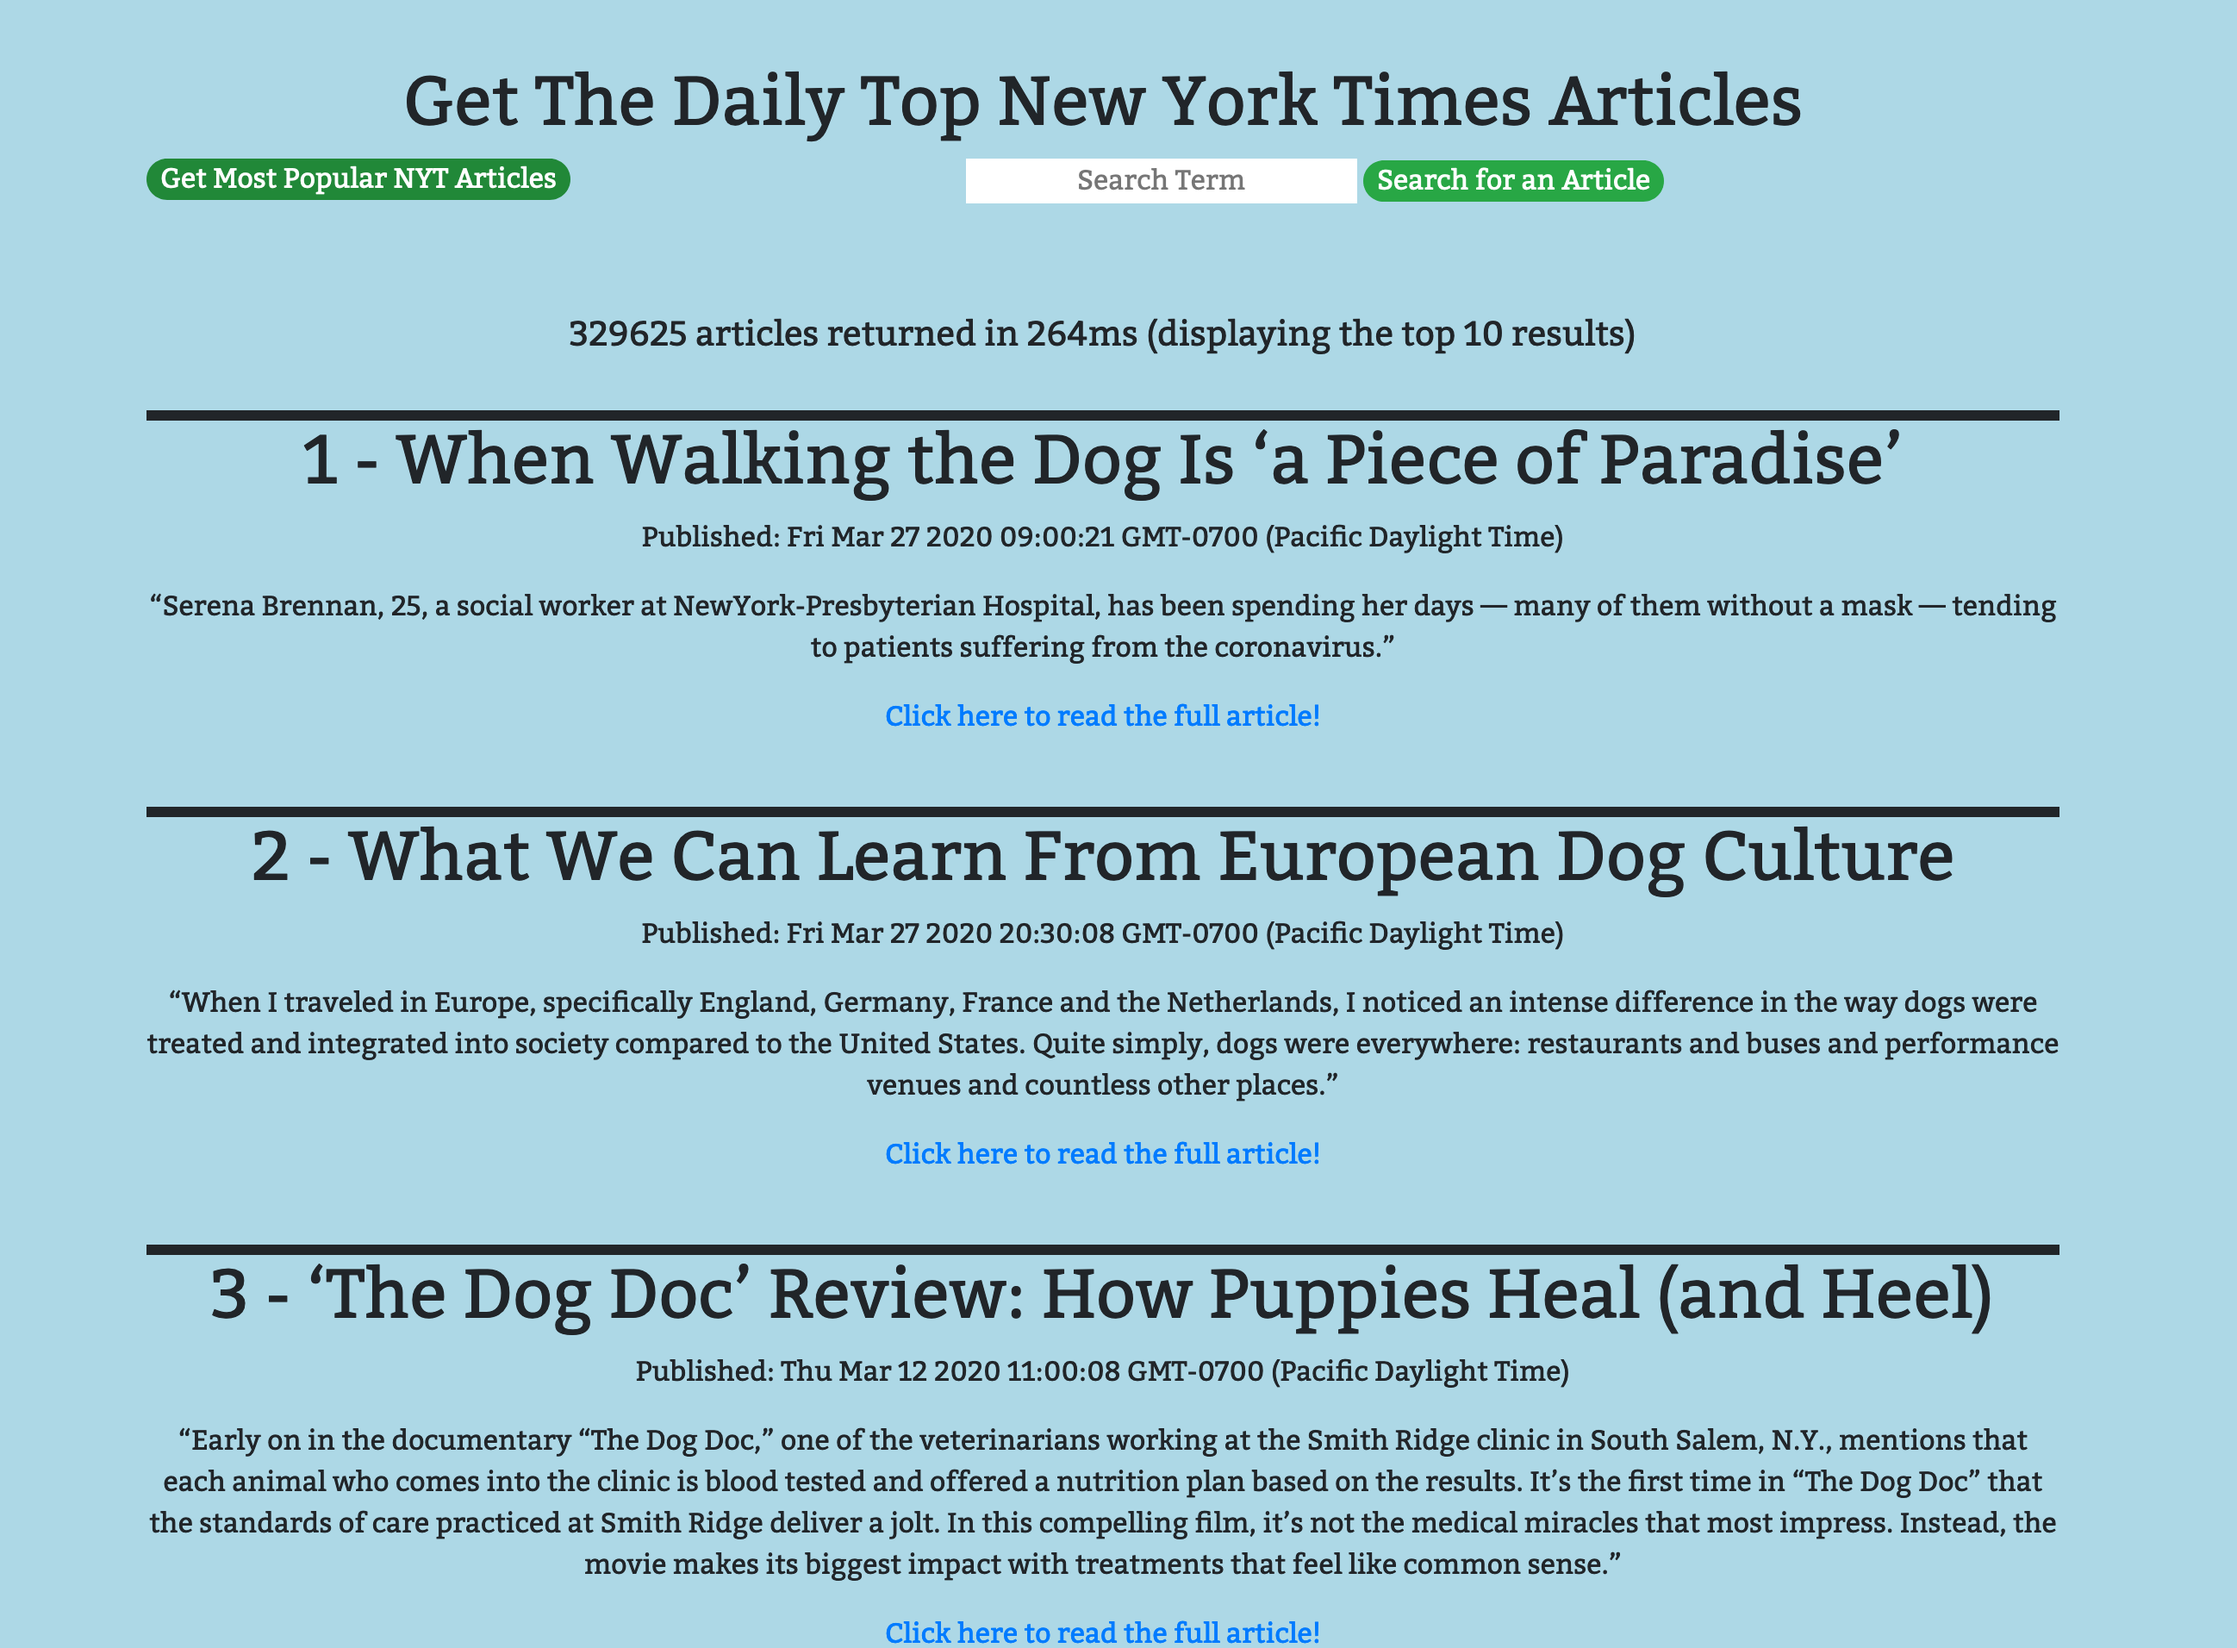
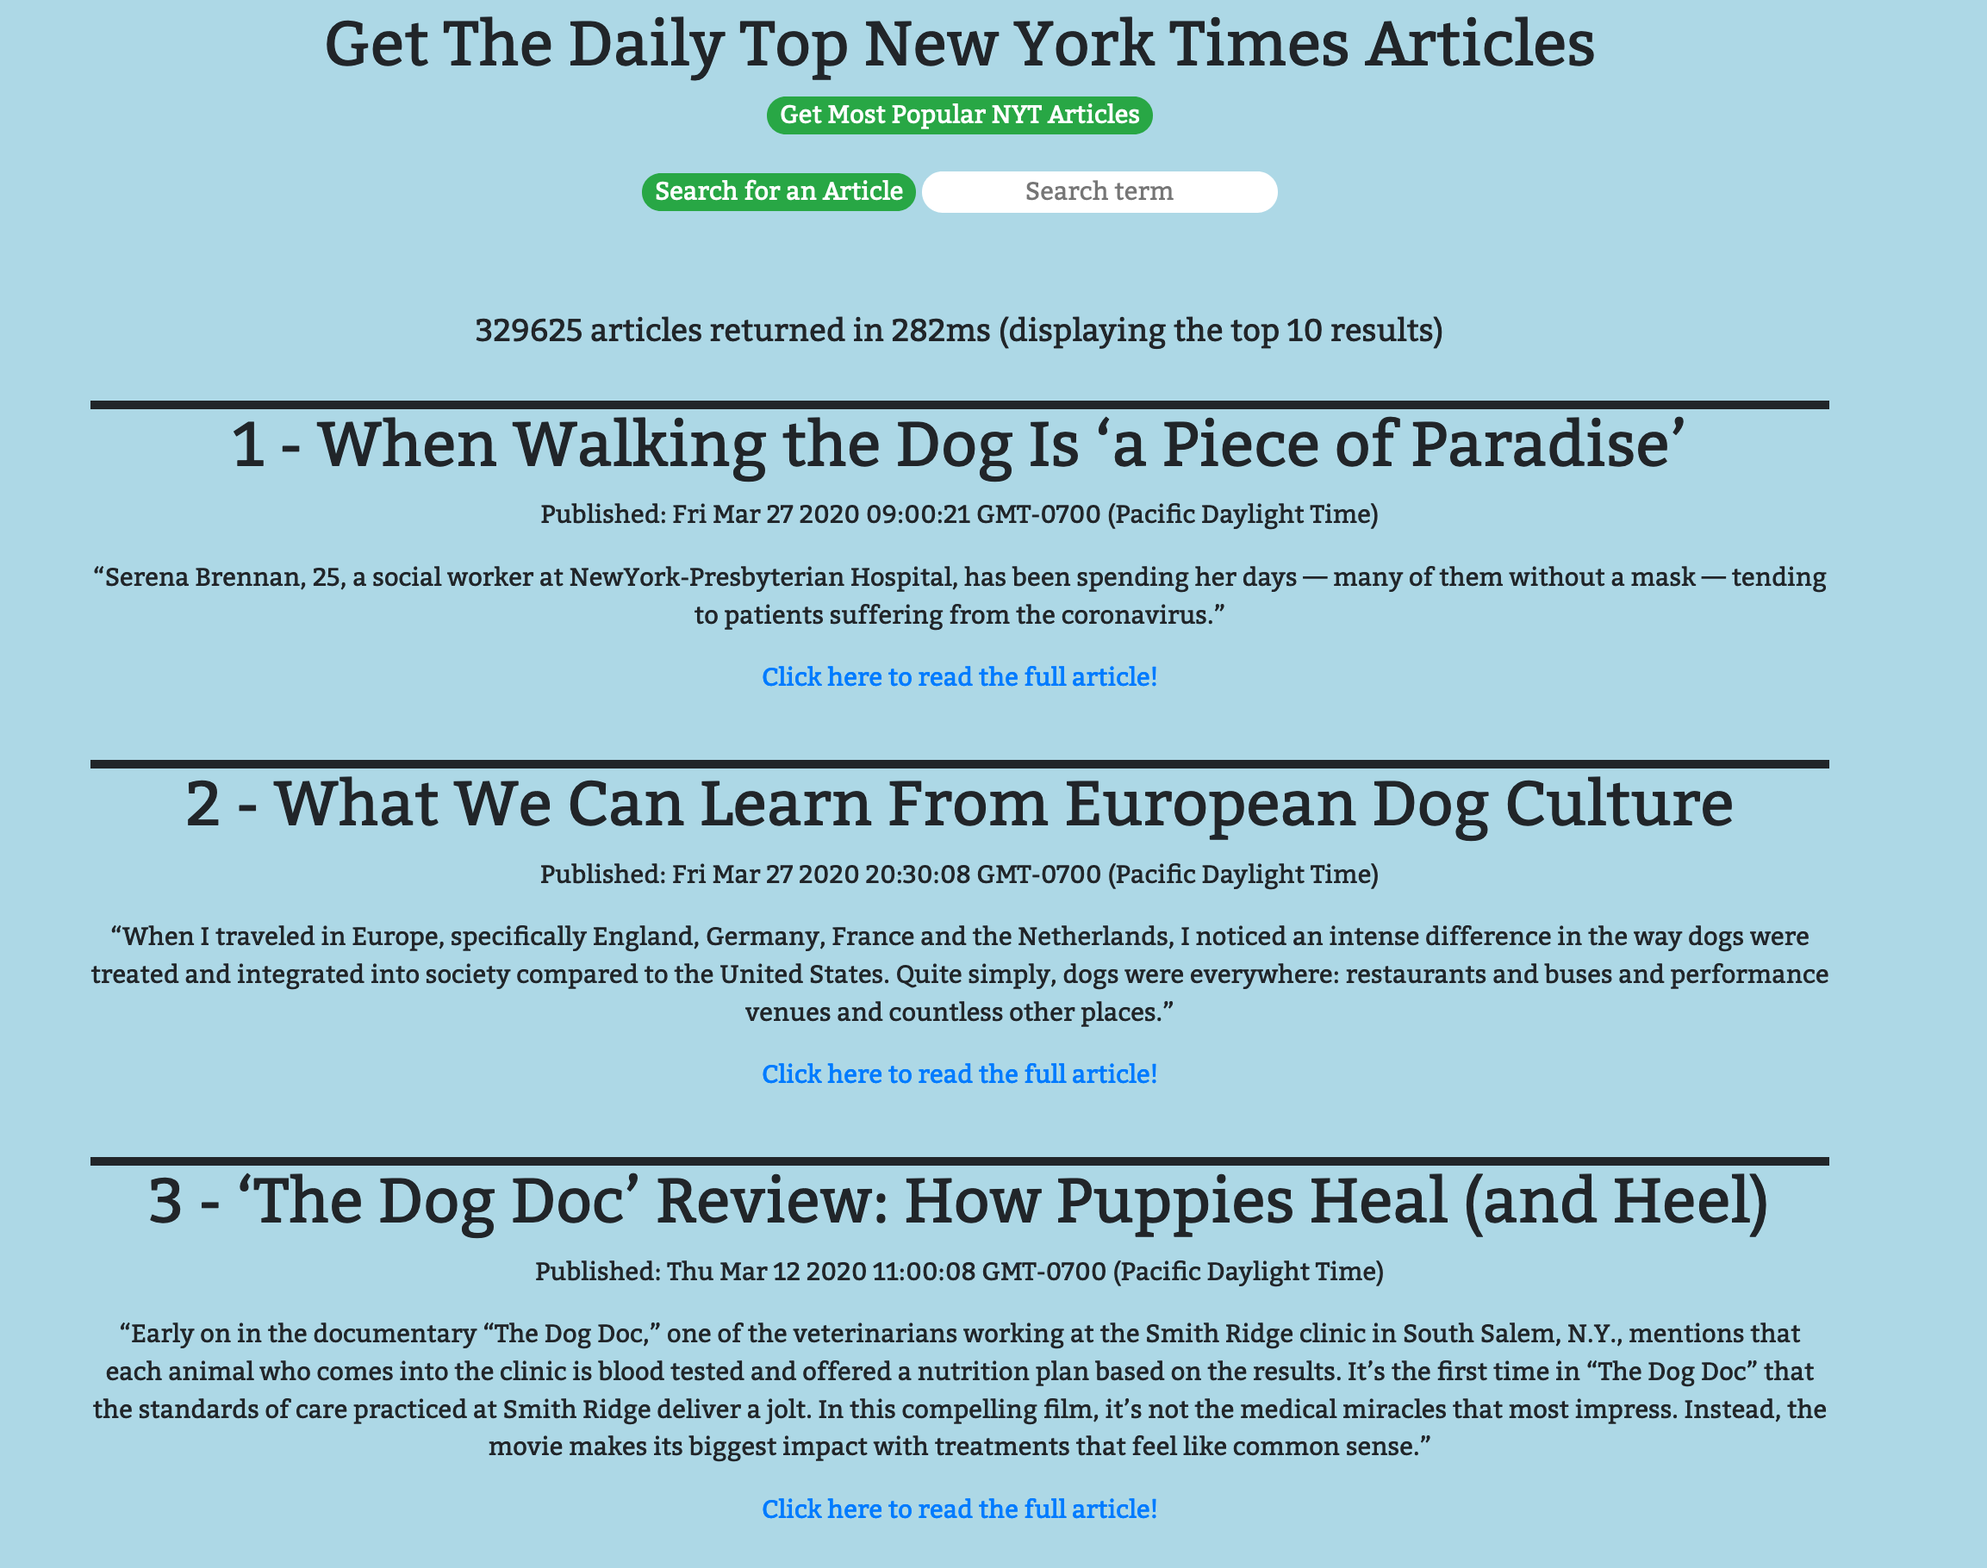
worked on layout, readme, and image

diff --git a/src/index.html b/src/index.html
@@ -19,7 +19,7 @@
         <br>
         <br>
         <button class="btn-success buttons" id="search-articles">Search for an
-          Article</button> <input type="text" placeholder="Search Term"
+          Article</button> <input type="text" placeholder="Search term"
           id="search-box">
       </div>
       <br>
@@ -28,5 +28,10 @@
       <div class="display-articles"></div>
 
     </div>
+    <footer>
+      <p>This website is not affiliated with The New York Times.<br> This is a
+        student project created by Luke Schlessinger - <a
+          href="https//github.com/lmschless">Visit my Github!</a></p>
+    </footer>
   </body>
 </html>

diff --git a/src/app.css b/src/app.css
@@ -23,8 +23,13 @@ html body {
 	align-items: center;
 	text-align: center;
 	border: none;
+	border-radius: 10em;
 }
 
+footer {
+	text-align: center;
+	align-items: center;
+}
 /* #test {
 	float: left;
 } */
